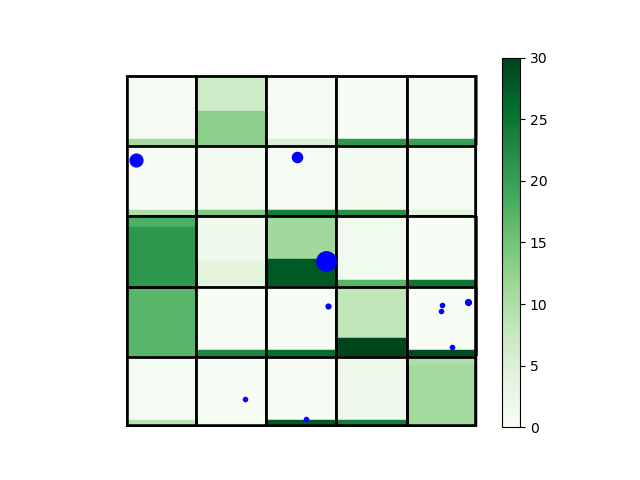
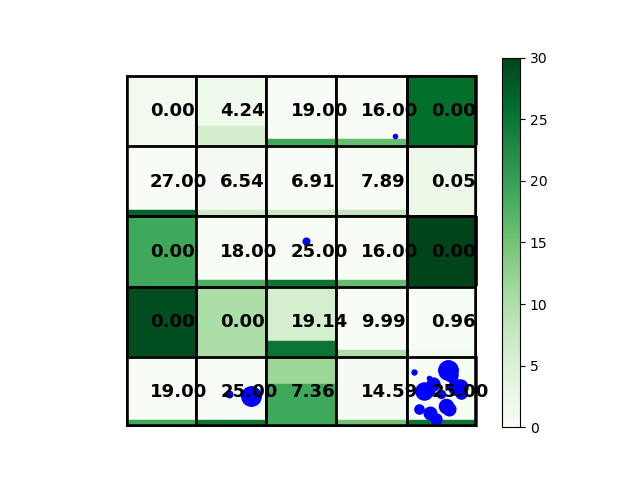
cleaned up and debugged funding implementation

diff --git a/Run.py b/Run.py
@@ -5,10 +5,10 @@ from classBoard import *
 from classScientist import *
 
 weights = {
-    "citation" : 0, 
-    "impact" : 0.1,
-    "exploration" : 1,
-    "funding" : 0
+    "citation" : 0.5, 
+    "impact" : 0.5,
+    "exploration" : 0.5,
+    "funding" : 0.5
 }
 
 funding = {
@@ -19,10 +19,10 @@ funding = {
 }
 
 chooseCellToFund = {
-    "visPayoff" : 0,
-    "starFactor" : 0,
-    "numHits" : 0,
-    "numSciHits" : 0
+    "visPayoff" : 0.5,
+    "starFactor" : 0.5,
+    "numHits" : 0.5,
+    "numSciHits" : 0.5
 }
 
 def oneRun(board, cellsHit, numRun):
@@ -47,6 +47,7 @@ def distributeFundingSci(dept, cellFunding):
     probabilities = np.zeros_like(dept)
     for sci in dept:
         star = sci.getStarFactor()
+        # print("star: ", star)
         # ensure numbers are in reasonable range
         if star <= -1:
             star = 1/abs(star)
@@ -102,8 +103,11 @@ def distributeFundingCell(board):
             visWeight = chooseCellToFund["visPayoff"] * (board.getVisPayoff(cell.location))
             numHitsWeight = chooseCellToFund["numHits"] * (cell.numHits)
             recentHitsWeight = chooseCellToFund["numSciHits"] * (cell.numSciHits)
+            # print("fundingWeights: ", starWeight, visWeight, numHitsWeight, recentHitsWeight)
 
-            denominator += np.exp(visWeight + starWeight + numHitsWeight + recentHitsWeight)
+            #Note: magic number 3 
+            denominator += (visWeight + starWeight + numHitsWeight + recentHitsWeight)**3
+    
     for j in range(board.rows):
         for k in range(board.cols):
             cell = board.board[j][k]
@@ -127,7 +131,7 @@ def distributeFundingCell(board):
             numHitsWeight = chooseCellToFund["numHits"] * (cell.numHits)
             recentHitsWeight = chooseCellToFund["numSciHits"] * (cell.numSciHits)
 
-            numerator = np.exp(visWeight + starWeight + numHitsWeight + recentHitsWeight)
+            numerator = (visWeight + starWeight + numHitsWeight + recentHitsWeight)**3
             probabilities[j][k] = numerator / denominator
 
             #fund cell and then scientist based on probabilities
@@ -147,8 +151,9 @@ def batchRun(board, numScientists, numRuns):
     for j in range(numRuns):
         # keep track of which cells the scientists are hitting to check overlap
         if j % funding["replenishTime"] == 0:
-            print("cellsHit: ", board.cellsHit)
-            print("funding: ", distributeFundingCell(board))
+            # print("cellsHit: ", board.cellsHit)
+            distributeFundingCell(board)
+            # print("funding: ", distributeFundingCell(board))
 
         board.cellsHit = {}
         for idx in range(len(dept)):
@@ -161,13 +166,13 @@ def batchRun(board, numScientists, numRuns):
                 board.cellsHit.update({location : [scientist]})
             if (scientist.career == 0) or (scientist.funding <= funding["minimum"]):
                 # when one scientist ends their career, another is introduced
-                print("died!")
                 dept.remove(scientist)
                 dept.append(Scientist())
         # print statistics at the end of the run
-        print()
-        print("Board with payoff values: ", oneRun(board, board.cellsHit, j+1))
-        print()
+        # print()
+        oneRun(board, board.cellsHit, j+1)
+        # print("Board with payoff values: ", oneRun(board, board.cellsHit, j+1))
+        # print()
         # print("Department: ", dept)
     currTotal = sum(board.flatten(board.getPayoffs()))
     print()
@@ -182,4 +187,4 @@ def batchRun(board, numScientists, numRuns):
     return
 
 board = Board(5, 5, 0)
-batchRun(board, numScientists=10, numRuns=20)
+batchRun(board, numScientists=20, numRuns=20)

diff --git a/classScientist.py b/classScientist.py
@@ -13,7 +13,7 @@ class Scientist():
 
     def __repr__(self):
         """String representation of Scientist"""
-        return str([self.impact, self.career, self.citcount])
+        return str([self.impact, self.career, self.citcount, self.funding])
 
     def getStarFactor(self):
         """calculates starFactor based on scientist's parameters"""
@@ -60,15 +60,15 @@ class Scientist():
         for x in range(board.rows):
             for y in range(board.cols):
                 cell = board.board[x][y]
-                denominator += np.exp((c * cell.numSciHits) +
-                    (i * board.getVisPayoff(cell.location)) + (f * cell.funds) +
-                    (e * 1/(1+cell.numHits)))
+                denominator += ((c * cell.numSciHits) + \
+                    (i * board.getVisPayoff(cell.location)) + (f * cell.funds) + \
+                    (e * 1/(1+cell.numHits)))**3
         for j in range(board.rows):
             for k in range(board.cols):
                 cell = board.board[j][k]
                 
-                numerator = np.exp((c * cell.numSciHits) + (i * board.getVisPayoff(cell.location)) +
-                    (e * 1/(1 + cell.numHits)) + (f * cell.funds))
+                numerator = ((c * cell.numSciHits) + (i * board.getVisPayoff(cell.location)) + \
+                    (e * 1/(1 + cell.numHits)) + (f * cell.funds))**3
                 
                 probabilities[j][k] = numerator / denominator
 

diff --git a/classBoard.py b/classBoard.py
@@ -45,7 +45,6 @@ class Board():
         '''
         return (self.originalPays[location[1]][location[0]] - self.board[location[0]][location[1]].payoff)
 
-
     def flatten(self, matrix):
         """turns a 2D matrix into a 1D list"""
         return [matrix[i][j] for j in range(len(matrix[0])) for i in range(len(matrix))]
@@ -103,9 +102,9 @@ class Board():
                         plt.plot(i+randX-0.5, j+randY-0.5,
                             marker="o", markersize=dotSize, markeredgecolor="blue",
                             markerfacecolor="blue")
-                # annotating cells (phase, numHits)
-                # (ex: B5 means breakthrough phase, hit 5 times)
-                # add this for debugging payoffs: {f'{cell.payoff:.1f}'}
+                # uncomment and change the following code to display cell values on image
+                # plt.annotate(f"{self.getVisPayoff(cell.location):.2f}", xy = (i, j), xytext=(i-0.15, j+0.075),
+                #     fontsize=13, fontweight='bold')
                 gridlines = patches.Rectangle((i-0.5,j-0.5),
                                 1, 1,
                                 fill=False,
